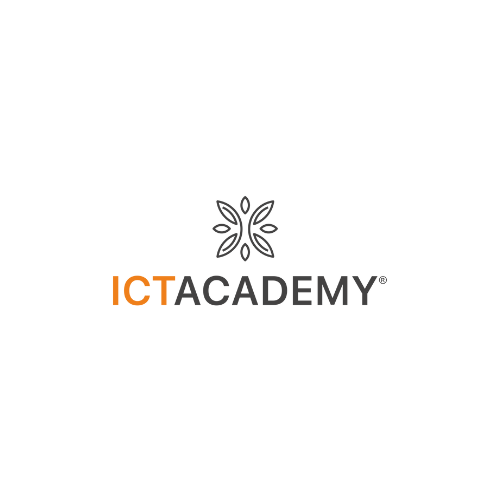
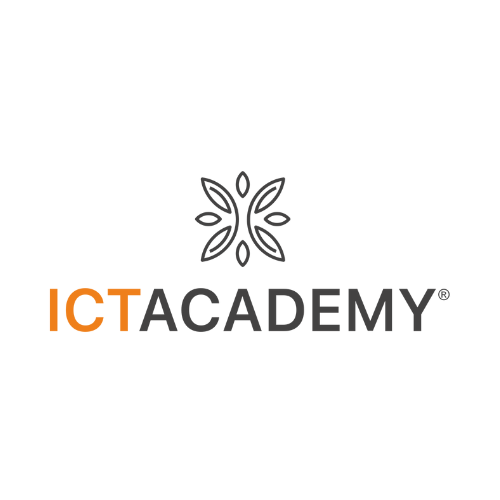
feat: Add About section component displaying symposium and institution details with an accreditation marquee.

Changed region(s): [[0.09, 0.33, 0.9, 0.69]]

diff --git a/src/components/About.jsx b/src/components/About.jsx
@@ -79,7 +79,7 @@ const About = () => {
                                     loading="lazy"
                                     src={item.image}
                                     alt={item.highlight}
-                                    className="w-[70%] h-[70%] object-contain"
+                                    className="w-[90%] h-[90%] object-contain"
                                 />
                             </div>
                             <h4 className="text-base sm:text-xl font-bold font-orbitron text-white text-center pb-0.5">{item.highlight}</h4>
